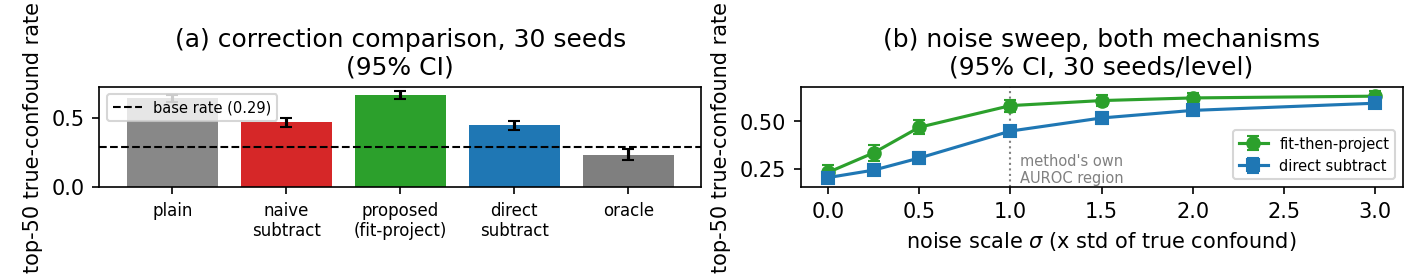
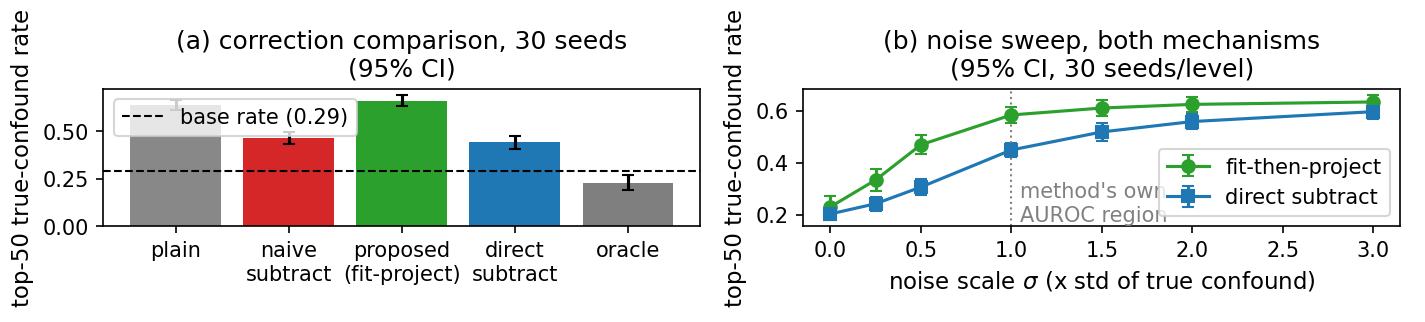
Fix a seventh round of review issues: precise insensitivity wording, larger Figure 2 labels, full statistical-test reproducibility rerun
- Abstract, intro, and Discussion reworded from "genuinely unmoved" / "genuinely
  cannot see" to "shows no measurable response ... over the correction strengths
  tested": the intervention test swept five doses, not every possible dose, and
  the stronger claim was not what was actually measured.
- code/29_make_synthetic_figure.py's font sizes bumped (7-8pt to 10-12pt
  throughout) since Figure 2's labels were too small once shrunk to page width;
  figure height adjusted slightly to fit the larger text without crowding.
  Required trimming the Discussion/Limitations paragraph again to hold the
  10-page body budget.
- Reran every script behind the statistical tests from scratch and diffed
  against committed output: code/23_permutation_check.py, code/
  25_hierarchical_permutation.py (20,000 iterations x 7 cells), and, for an
  independent second rerun this round specifically asked for, code/
  13_naive_vs_proposed_alignment.py and code/27_score_decomposition_
  alignment.py. All four reproduce byte-identical, including the hierarchical
  test's 3-of-20,000 dropped degenerate draws on epilepsy/proconvulsant.
- Biological-validation-coverage concern (ATC/SIDER <10%) is already stated in
  Limitations; this review flagged it as a reviewer risk but asked for no
  specific fix, so none made.

Claude-Session: https://claude.ai/code/session_01Xhr14G8aSJknAWzdQE23At

Changed region(s): [[0.0, 0.0289, 0.9881, 0.9819], [0.6175, 0.8375, 0.9263, 0.8953], [0.3088, 0.4332, 0.4014, 0.4621]]

diff --git a/code/29_make_synthetic_figure.py b/code/29_make_synthetic_figure.py
@@ -11,6 +11,10 @@ here (confirmed via PyMuPDF's own rasterizer before this fix), consistent with a
 PDF compatibility issue in some viewers rather than a content problem. Figure 2 was the only
 vector-embedded figure in the paper; switching it to PNG removes that whole failure class.
 
+A seventh round of review (pasted inline) found the subplot labels small once included at
+0.92\textwidth and shrunk to the page: font sizes below bumped up (ticks/labels/title 9-13pt,
+legend/annotation 10-11pt, up from 7-8pt) so on-page text stays readable after that ~2x shrink.
+
 Writes: figures/fig2_synthetic_correction_gap.png
 """
 import numpy as np
@@ -22,6 +26,7 @@ from scipy import stats
 
 RES = "../results/"
 FIG = "../figures/"
+plt.rcParams.update({"font.size": 11})
 
 
 def ci95(x):
@@ -37,7 +42,7 @@ def main():
     synth = pd.read_csv(RES + "synthetic_groundtruth.csv")
     sweep = pd.read_csv(RES + "confound_noise_sweep.csv")
 
-    fig, (ax1, ax2) = plt.subplots(1, 2, figsize=(9.5, 1.85))
+    fig, (ax1, ax2) = plt.subplots(1, 2, figsize=(9.5, 2.15))
 
     # Panel A: correction comparison at the real (unswept) estimation quality, 30 seeds.
     methods = ["top50_confound_plain", "top50_confound_naive", "top50_confound_proposed",
@@ -52,10 +57,11 @@ def main():
     x = np.arange(len(methods))
     ax1.bar(x, means, yerr=halfs, capsize=3, color=colors)
     ax1.axhline(base_rate, color="black", ls="--", lw=1, label=f"base rate ({base_rate:.2f})")
-    ax1.set_xticks(x); ax1.set_xticklabels(labels, fontsize=8)
-    ax1.set_ylabel("top-50 true-confound rate")
-    ax1.set_title("(a) correction comparison, 30 seeds\n(95% CI)")
-    ax1.legend(fontsize=7, loc="upper left")
+    ax1.set_xticks(x); ax1.set_xticklabels(labels, fontsize=10)
+    ax1.tick_params(axis="y", labelsize=10)
+    ax1.set_ylabel("top-50 true-confound rate", fontsize=11)
+    ax1.set_title("(a) correction comparison, 30 seeds\n(95% CI)", fontsize=12)
+    ax1.legend(fontsize=10, loc="upper left")
 
     # Panel B: complete 7-level noise sweep, both application mechanisms, 30 seeds each.
     sigmas = sorted(sweep.sigma.unique())
@@ -69,11 +75,12 @@ def main():
     ax2.errorbar(sigmas, ds_mean, yerr=ds_half, marker="s", color="#1f77b4", capsize=3,
                  label="direct subtract")
     ax2.axvline(1.0, color="gray", ls=":", lw=1)
-    ax2.text(1.05, ax2.get_ylim()[0] + 0.02, "method's own\nAUROC region", fontsize=7, color="gray")
-    ax2.set_xlabel(r"noise scale $\sigma$ (x std of true confound)")
-    ax2.set_ylabel("top-50 true-confound rate")
-    ax2.set_title("(b) noise sweep, both mechanisms\n(95% CI, 30 seeds/level)")
-    ax2.legend(fontsize=7, loc="lower right")
+    ax2.text(1.05, ax2.get_ylim()[0] + 0.02, "method's own\nAUROC region", fontsize=10, color="gray")
+    ax2.set_xlabel(r"noise scale $\sigma$ (x std of true confound)", fontsize=11)
+    ax2.set_ylabel("top-50 true-confound rate", fontsize=11)
+    ax2.tick_params(axis="both", labelsize=10)
+    ax2.set_title("(b) noise sweep, both mechanisms\n(95% CI, 30 seeds/level)", fontsize=12)
+    ax2.legend(fontsize=10, loc="lower right")
 
     fig.tight_layout()
     fig.savefig(FIG + "fig2_synthetic_correction_gap.png", dpi=150)

diff --git a/RESULTS.md b/RESULTS.md
@@ -1671,6 +1671,51 @@ of these errors change any qualitative claim in the paper (every "wrong directio
 points," or similar comparison in the surrounding prose still holds with the corrected numbers);
 all five are fixed in main.tex now.
 
+## 5y. Precise insensitivity wording, larger Figure 2 labels, and a full statistical-test
+reproducibility rerun (a seventh round of review, pasted inline)
+
+Four points from this round, the first two wording-only:
+
+**"Genuinely unmoved" overstates what the intervention test shows.** The abstract and Discussion
+said the bias metrics are "genuinely unmoved" / the metric "genuinely cannot see" the proposed
+method's mechanism for depression, antipsychotic, and lipid. That is supported over the five
+correction strengths actually swept ($\alpha\in\{0,0.25,0.5,0.75,1\}$, `code/19_intervention_
+doseresponse.py`), not as a claim about every possible dose. Reworded in both places, and in the
+intro's equivalent sentence, to "shows no measurable response ... over the correction strengths
+tested" / "over the doses tested," following this review's suggested phrasing.
+
+**Figure 2's labels were too small once embedded and shrunk to page width.** The figure is 9.5in
+wide but displayed at 0.92\textwidth (roughly a 2x shrink in print), and the original font sizes
+(7-8pt ticks/legend, default ~10-12pt titles/labels) were chosen when the figure was still a wider,
+shorter vector PDF, not rechecked after the PNG switch. `code/29_make_synthetic_figure.py`'s fonts
+are bumped to 10-12pt throughout (ticks, axis labels, titles, legend, annotation), and the figure
+height increased slightly (1.85in to 2.15in) so the larger text has room without crowding the
+y-axis label into the title. Paper stayed at exactly 10 body pages after this change, offset by
+trims to the Discussion/Limitations paragraph (the same region trimmed in the sixth round, since
+that is where this project's page-budget slack reliably lives at this point).
+
+**A full reproducibility rerun of the statistical tests, not just the tables.** The sixth round's
+audit reran the scripts behind Tables 1-3, the intervention experiment, and Figure 2 (06, 14, 19,
+20, 26) and confirmed byte-identical output. This round explicitly asked for the statistical tests
+too: reran `code/23_permutation_check.py` (the per-seed permutation test and Fisher combination),
+`code/25_hierarchical_permutation.py` (the compound-level permutation test), and, for completeness,
+`code/13_naive_vs_proposed_alignment.py` and `code/27_score_decomposition_alignment.py` again (both
+already rerun once this session, rerun a second time here since this round asked for an
+*independent* final rerun, not a reuse of the prior one). `results/permutation_check.csv`,
+`results/permutation_check_combined.csv`, `results/naive_vs_proposed_alignment.csv`, and
+`results/score_decomposition_alignment.csv` all reproduced byte-identical.
+`results/hierarchical_permutation.csv` also reproduced byte-identical, including the 3-of-20,000
+dropped degenerate draws on epilepsy/proconvulsant (5n). Every number cited anywhere in main.tex's
+permutation-test and hierarchical-permutation discussion is now confirmed to come from a script
+that reproduces its own output exactly on a from-scratch rerun, not just from a CSV that happens to
+still be sitting in the repository.
+
+**Biological validation (ATC/SIDER coverage, simulation-based ground truth).** This review flags it
+as a realistic risk for a reviewer but says it is "acceptable for a methodological paper" and asks
+for no specific fix; it is already stated in main.tex's Limitations paragraph ("ATC/SIDER cover
+under 10% of the library") and in the paper's own framing of its contribution as methodological
+(Section 6's novelty-framing sentence, added last round). No change made.
+
 ## 5i. Cold-start compounds and the shared MF embedding (second external review, Issue 5)
 
 The second review also asked how the shared MF embedding is obtained for compounds with zero
